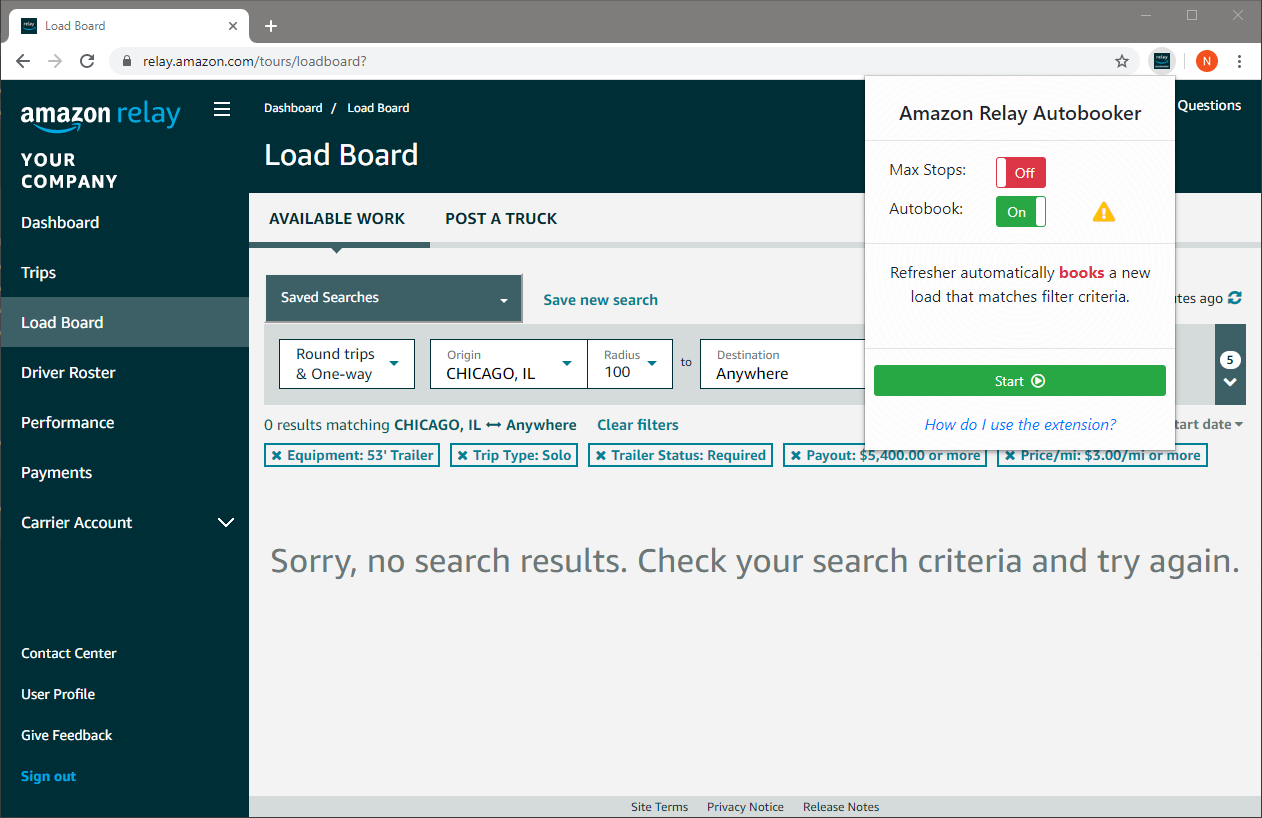
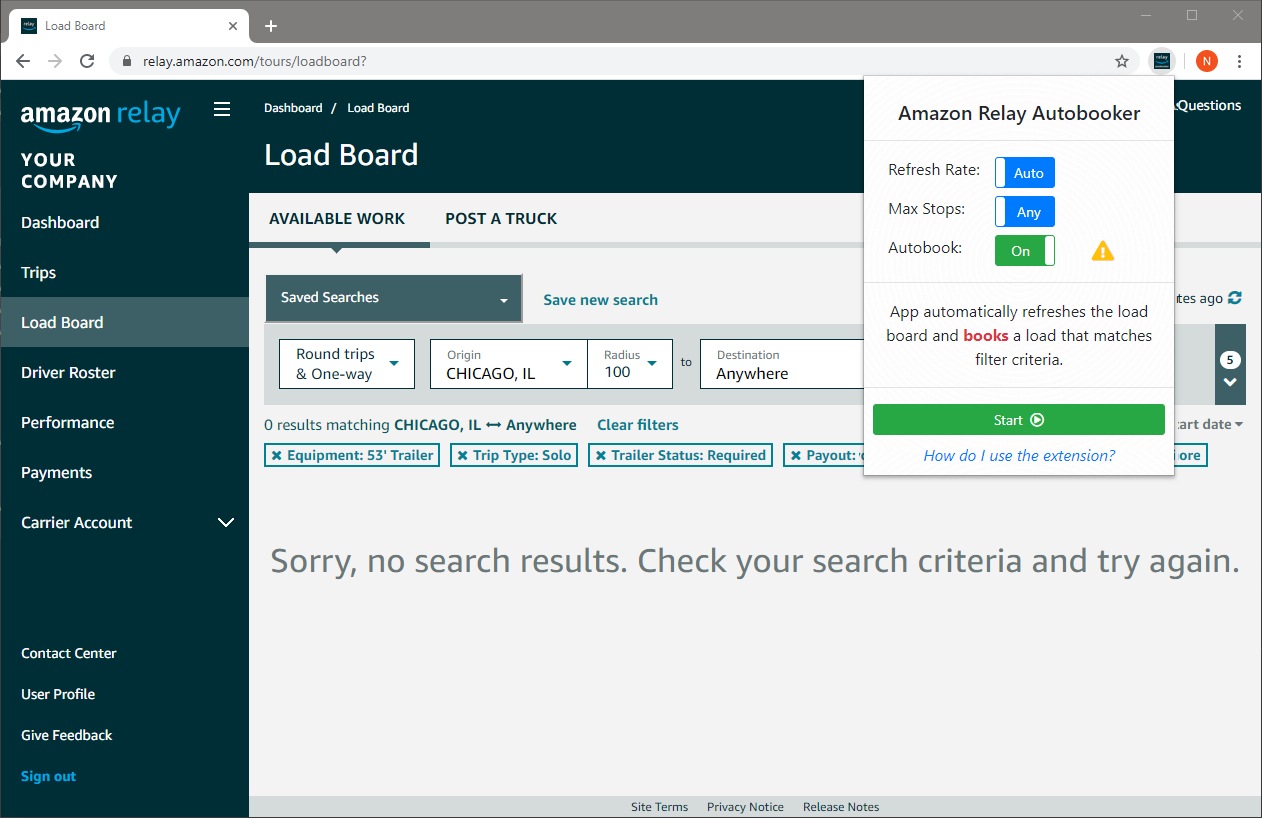
Fixed screenshots and typos

Changed region(s): [[0.6799, 0.1834, 0.958, 0.6112], [0.7108, 0.1222, 0.8962, 0.1528]]

diff --git a/index.md b/index.md
@@ -1,6 +1,6 @@
-## Amazon Relay Autobooker Chrome Extension Help Page 
+## Amazon Relay Auto-Booker Chrome Extension Help Page 
 
-## Content
+### Content
 - [About the extension](\#about-the-extension)
 - [Requirements](\#requirements)
 - [How to install](\#how-to-install)
@@ -10,7 +10,7 @@
 
 ### About the extension
 
-Amazon Relay Autbooker Extension is developed by exprienced developers to simplify the life of truck dispatchers who struggle getting good loads on load board.
+Amazon Relay Auto-Booker Extension is developed by experienced developers to help you to book amazon relay loads.
 
 ### Requirements
 
@@ -19,7 +19,7 @@ Amazon Relay Autbooker Extension is developed by exprienced developers to simpli
 
 ### How to install
 1. Open Chrome web browser and navigate to [Google Webstore](https://chrome.google.com/webstore/detail/amazon-relay-auto-refresh/gooaddljkpdcjbdigogmajlcgifjjhgp)
-2. Click on **Buy** button (If you do not see **Buy** button, you should change the account [location](/#\#possible-problems-and-solutions))
+2. Click on **Buy** button (If you do not see **Buy** button, you should change the account [location](\#possible-problems-and-solutions))
 
 ![Image](./screenshots/extension_webstore.png)
 
@@ -39,9 +39,13 @@ Amazon Relay Autbooker Extension is developed by exprienced developers to simpli
 
 5. Click on extension icon on browser right top corner
 
-![Image](./screenshots/extemsion_clear.png)
+![Image](./screenshots/extension_clear.png)
 
-6. If you want to get notified on a new load with specific number of stops, then turn on **Max Stops** toggle and enter number of maximum stops
+6. By default refresh rate is determined by app, but if you want to set your own value, toggle **Refresh Rate** and enter the number of refreshes per second
+
+![Image](./screenshots/extension_refresh_rate.png)
+
+6. If you want to get notified on a load with less than specific number of stops, then turn on **Max Stops** toggle and enter the number of maximum stops
 
 ![Image](./screenshots/extension_max_stops.png)
 
@@ -65,7 +69,7 @@ Amazon Relay Autbooker Extension is developed by exprienced developers to simpli
 
 or books it by clicking on book and accept buttons. Extension notifies you with sound as well.
 
-![Image](./screenshots/booked.png)
+![Image](./screenshots/booked_trip.png)
 
 ### Possible problems and solutions
 #### Problem:
@@ -84,6 +88,12 @@ Extension is not available in some countries, in order to download from one of t
 Extension icon is grayed out
 #### Solution:
 Extension is active only on amazon relay load board, please navigate to [Load Board](https://relay.amazon.com/tours/loadboard?)
+
+#### Problem:
+Loading spinner is not going away on load board when I manually set refresh rate.
+#### Solution:
+When refresh rate is too high, relay might log you out, we recommend to keep refresh rate on auto or set it to lower rates.
+
 
 ### Contact
 Thank you for using Amazon Relay Autobooker Extension!
